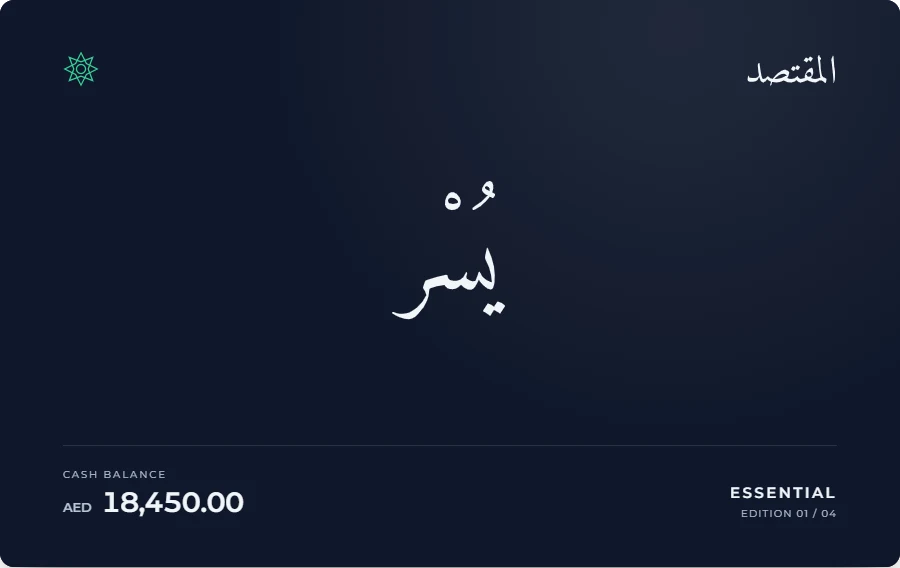
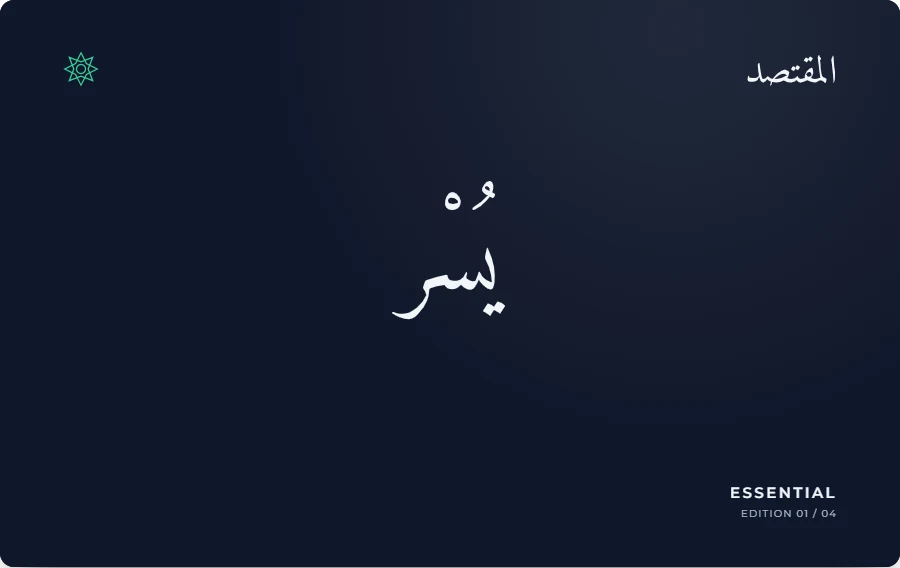
feat: showcase artwork-only cards with an Essential writing preview
Keep the balance in the dashboard preview and use clean artwork for the collection, closing card and social image. Add a lazy-loaded, opt-in preview of the app's actual Essential pen strokes while preserving full earned-card reveals for the app. Handle replay, interrupted animation, reduced motion and failed asset retries.

Changed region(s): [[0.0622, 0.868, 0.28, 0.9278], [0.0933, 0.8081, 0.1867, 0.838]]

diff --git a/assets/website.js b/assets/website.js
@@ -4,6 +4,12 @@
   const reduced = window.matchMedia('(prefers-reduced-motion: reduce)');
   const themeButton = document.querySelector('[data-theme-toggle]');
   const art = document.getElementById('edition-art');
+  const writingButton = document.querySelector('[data-preview-writing]');
+  const writingPreview = document.querySelector('[data-writing-preview]');
+  let writingVersion = 0;
+  let writingAnimations = [];
+  let writingMarkup;
+  let writingActive = false;
   const editions = [
     { name: 'Essential', material: 'YOUR STARTING POINT', message: 'A hopeful beginning.', description: 'A difficult season does not erase your progress. Begin with one small, intentional step.', requirement: 'Your starting card when you create your account. It follows your light or dark theme.', file: 'essential', word: 'Yusr, ease' },
     { name: 'Emerald', material: 'EMERALD SATIN', message: 'Keep going, gently.', description: 'Your picture is getting clearer. Keep showing up, one thoughtful habit at a time.', requirement: 'Complete one accepted first check-in: review an account balance and your recent records.', file: 'emerald', word: 'Sabr, patience' },
@@ -17,6 +23,8 @@
     return '/assets/cards/' + editions[index].file + (index === 0 ? '-' + root.dataset.theme : '') + '.webp';
   }
   async function showCard(index) {
+    cancelWriting();
+    syncWritingButton();
     const request = ++imageRequest;
     const path = editionPath(index);
     const next = new Image();
@@ -33,7 +41,7 @@
     if (request !== imageRequest) return;
     cardAnimation?.cancel();
     art.hidden = false;
-    caption.textContent = 'The Barakah Card collection · illustrative balance';
+    caption.textContent = 'The Barakah Card collection · artwork preview';
     caption.removeAttribute('role');
     art.src = path;
     art.alt = editions[index].name + ' Barakah Card, with the Arabic reminder ' + editions[index].word + '.';
@@ -41,6 +49,65 @@
       cardAnimation = art.animate([{ opacity: .4, transform: 'translateY(5px)' }, { opacity: 1, transform: 'translateY(0)' }], { duration: 220, easing: 'cubic-bezier(.23,1,.32,1)' });
     }
   }
+  function syncWritingButton() {
+    writingButton.hidden = selected !== 0 || reduced.matches || typeof art.animate !== 'function';
+  }
+  function cancelWriting() {
+    ++writingVersion;
+    writingAnimations.forEach(animation => animation.cancel());
+    writingAnimations = [];
+    writingPreview.hidden = true;
+    writingPreview.replaceChildren();
+    writingButton.disabled = false;
+    writingButton.textContent = 'Preview the writing';
+    if (writingActive && selected === 0) art.src = editionPath(0);
+    writingActive = false;
+  }
+  writingButton.addEventListener('click', async () => {
+    if (selected !== 0 || reduced.matches || writingActive) return;
+    ++imageRequest;
+    const version = ++writingVersion;
+    writingActive = true;
+    writingButton.disabled = true;
+    writingButton.textContent = 'Loading preview…';
+    const caption = document.querySelector('.art-caption');
+    caption.textContent = 'The Barakah Card collection · artwork preview';
+    caption.removeAttribute('role');
+    const blank = new Image();
+    blank.src = '/assets/cards/essential-' + root.dataset.theme + '-blank.webp';
+    try {
+      const [markup] = await Promise.all([
+        writingMarkup || fetch('/assets/cards/essential-writing.svg').then(response => { if (!response.ok) throw new Error('Writing artwork unavailable'); return response.text(); }),
+        blank.decode(),
+      ]);
+      writingMarkup = markup;
+      if (version !== writingVersion || reduced.matches || selected !== 0) return;
+      const svg = new DOMParser().parseFromString(markup, 'image/svg+xml').documentElement;
+      if (svg.localName !== 'svg' || svg.querySelector('parsererror')) throw new Error('Invalid writing artwork');
+      writingPreview.replaceChildren(document.importNode(svg, true));
+      art.src = blank.src;
+      writingPreview.hidden = false;
+      writingButton.textContent = 'Writing…';
+      // The app's exact Amiri outlines, pen routes and timings; no reward reveal.
+      writingAnimations = Array.from(writingPreview.querySelectorAll('[data-pen-stroke],[data-pen-tip]'), path => path.animate([
+        { strokeDashoffset: '1', opacity: 0, offset: 0 },
+        { strokeDashoffset: '1', opacity: 1, offset: .001 },
+        { strokeDashoffset: '0', opacity: 1, offset: 1 },
+      ], { delay: Number(path.dataset.delay), duration: Number(path.dataset.duration), easing: 'cubic-bezier(.32,.08,.24,1)', fill: 'both' }));
+      await Promise.all(writingAnimations.map(animation => animation.finished));
+      if (version !== writingVersion) return;
+      cancelWriting();
+      writingButton.textContent = 'Replay the writing';
+    } catch {
+      if (version !== writingVersion) return;
+      cancelWriting();
+      const caption = document.querySelector('.art-caption');
+      caption.textContent = 'Writing preview could not load. Try again.';
+      caption.setAttribute('role', 'status');
+    }
+  });
+  syncWritingButton();
+  document.addEventListener('visibilitychange', () => { if (document.hidden) cancelWriting(); });
   function syncTheme() {
     const light = root.dataset.theme === 'light';
     themeButton.setAttribute('aria-label', 'Switch to ' + (light ? 'dark' : 'light') + ' theme');
@@ -97,7 +164,7 @@
     document.querySelectorAll('.reveal').forEach(element => observer.observe(element));
     reduced.addEventListener('change', () => { if (reduced.matches) observer.disconnect(); });
   }
-  reduced.addEventListener('change', () => { if (reduced.matches) { cardAnimation?.cancel(); panelAnimation?.cancel(); } });
+  reduced.addEventListener('change', () => { if (reduced.matches) { cardAnimation?.cancel(); panelAnimation?.cancel(); cancelWriting(); } syncWritingButton(); });
 
   // Same bounded tilt and orientation calibration as the app's useCardTilt.
   // Scroll entrance belongs to the outer stage, so it cannot override interaction.

diff --git a/index.html b/index.html
@@ -151,7 +151,7 @@
 </svg>
 </span>
 </div>
-<img class="dashboard-card" src="/assets/cards/emerald.webp" width="900" height="567" fetchpriority="high" alt="Emerald Barakah Card with engraved botanical details, the Arabic reminder Sabr, and a cash balance of AED 18,450.">
+<img class="dashboard-card" src="/assets/cards/emerald-balance.webp" width="900" height="567" fetchpriority="high" alt="Emerald Barakah Card with engraved botanical details, the Arabic reminder Sabr, and a cash balance of AED 18,450.">
 <div class="app-card-link">Your Barakah Card <span aria-hidden="true">↗</span>
 </div>
 <div class="app-widget balance-widget">
@@ -214,8 +214,10 @@
 </span>
 <div class="card-art-frame">
 <img id="edition-art" src="/assets/cards/essential-dark.webp" width="900" height="567" loading="lazy" decoding="async" alt="Essential Barakah Card, with the Arabic reminder Yusr, ease.">
+<span class="writing-preview" data-writing-preview aria-hidden="true" hidden></span>
 </div>
-<p class="art-caption">The Barakah Card collection · illustrative balance</p>
+<p class="art-caption">The Barakah Card collection · artwork preview</p>
+<button type="button" class="text-link writing-button" data-preview-writing hidden>Preview the writing</button>
 <div class="edition-picker" role="group" aria-label="Preview a card edition">
 <button type="button" data-edition="0" aria-pressed="true" aria-controls="edition-details">
 <span class="swatch swatch-essential">
@@ -541,7 +543,7 @@
 <img class="download-card" src="/assets/cards/pearl-platinum.webp" width="900" height="567" loading="lazy" decoding="async" alt="Pearl Platinum, the final Barakah Card edition, with a full arabesque engraving and the Arabic reminder Ihsan, excellence.">
 </div>
 </div>
-<figcaption>Pearl Platinum · illustrative balance</figcaption>
+<figcaption>Pearl Platinum · final edition</figcaption>
 <button type="button" class="text-link tilt-toggle" data-phone-tilt aria-pressed="false" hidden>Enable phone tilt</button>
 <p class="tilt-status" data-tilt-status role="status"></p>
 </figure>

diff --git a/assets/website.css b/assets/website.css
@@ -624,6 +624,7 @@ figcaption {
 }
 
 .card-art-frame {
+  position: relative;
   perspective: 1200px;
   padding-block: .5rem;
 }
@@ -640,6 +641,37 @@ figcaption {
   font-size: .625rem;
   margin-top: 1rem;
   text-align: center;
+}
+
+.writing-preview {
+  position: absolute;
+  inset: .5rem 0;
+  pointer-events: none;
+  color: #f4ede2;
+}
+
+[data-theme=light] .writing-preview {
+  color: #0f172a;
+}
+
+.writing-preview>svg {
+  display: block;
+  width: 100%;
+  height: 100%;
+}
+
+.writing-button {
+  display: flex;
+  margin: .5rem auto 0;
+  padding: .5rem;
+  border: 0;
+  background: transparent;
+  color: var(--accent);
+  font-size: .75rem;
+}
+
+.writing-button:disabled {
+  cursor: default;
 }
 
 .edition-picker {

diff --git a/README.md b/README.md
@@ -8,7 +8,7 @@ Marketing site for **BarakahFlow**, a mindful personal finance app for Muslims. 
 | --- | --- |
 | `index.html` | App-led landing page: Summary preview, Barakah Card explorer, Track/Plan/Save, guided routine, download and FAQ |
 | `assets/website.css`, `assets/website.js` | Shared website tokens, responsive layouts, accessible previews and restrained native motion |
-| `assets/cards/` | WebP exports of the app's active card component, with illustrative balances |
+| `assets/cards/` | Current artwork-only WebP cards, a separate dashboard balance preview, and lazy-loaded Essential writing artwork |
 | `404.html` | Branded missing-page response, including retired public calculators |
 | `privacy-policy.html` | Privacy policy |
 | `terms.html` | Terms of Service |
@@ -30,6 +30,7 @@ Public calculator pages and their promotion are hidden. Their eleven generated H
 
 - **App branding**: Montserrat, emerald accents, slate surfaces, quiet 14px panels and light/dark themes. Fonts are self-hosted copies of the app's existing files.
 - **Barakah Cards**: Essential, Emerald, Midnight Gold and Pearl Platinum, with current earning rules and Arabic artwork. No payment-card, streak, private Wallet demo or prototype promises.
+- **Artwork and writing**: collection, social artwork and closing card omit cash figures. The dashboard alone shows an illustrative balance. Essential offers an explicit writing preview using the app's exact Arabic outlines, pen routes and timing; no autoplay, earned-edition animation, engraving evolution or reward celebration. Reduced motion keeps the finished artwork visible.
 - **Closing card**: Pearl Platinum follows desktop pointer movement with bounded 3D tilt. Phone motion is opt-in, requests sensor permission where required, calibrates to the starting position and suspends offscreen or when reduced motion is enabled. The scroll entrance and interactive tilt use separate layers. No sensor readings are stored or sent anywhere.
 - **Current features**: manual records/Quick Spend, account balances, category budgets, recurring bills, savings goals, multiple currencies and guided check-ins.
 - **Platform clarity**: browser and Android APK links; iPhone Safari Home Screen instructions, with no App Store claim or automatic install popup.
@@ -46,9 +47,9 @@ Public calculator pages and their promotion are hidden. Their eleven generated H
 
 Compared the public homepage with the app's active `BarakahCard.tsx`, `card-data.ts`, `CardProgressSummary.tsx`, dashboard, `DashboardCard.module.css`, Quick Spend, budget and savings components and current onboarding. Product reference was the app itself, not a new visual direction. The separate clean-card concept remains a preview and is deliberately not advertised as shipped.
 
-Card images were rendered from the active React component in isolated Chrome with sample AED 18,450, then exported to 9–28KB WebP files. Dashboard and feature compositions are HTML previews, not authenticated screenshots. No production data, financial writes or auth changes were used. Regenerate the assets deliberately when the active renderer changes; do not reuse the older Wallet PNGs, which retain historical edition labels.
+Card images were rendered from the active React component's `presentation="artwork"` mode in isolated Chrome and exported to small WebP files. The separate `emerald-balance.webp` dashboard image uses an illustrative AED 18,450. Essential's blank artwork and `essential-writing.svg` come from the same renderer: the SVG preserves the exact Amiri mask paths and per-stroke schedules. Only the word is previewed, without the full in-app reveal. Dashboard and feature compositions are HTML previews, not authenticated screenshots. No production data, financial writes or auth changes were used. Regenerate assets deliberately when the active renderer changes; older Wallet PNGs retain historical edition labels.
 
-The old calculator-led sections, repeated scholarly descriptions, dated screenshots, unsupported demo claims, automatic install popup, remote font requests and unpinned icon library were removed from the landing page. Legal content and the APK/checksum are preserved. The homepage is about 25KB HTML, plus 34KB CSS and 12KB JavaScript before hosting compression.
+The old calculator-led sections, repeated scholarly descriptions, dated screenshots, unsupported demo claims, automatic install popup, remote font requests and unpinned icon library were removed from the landing page. Legal content and the APK/checksum are preserved. The website remains buildless; the writing artwork loads only on request and adds no framework or animation dependency.
 
 ## Local checks and preview
 
@@ -63,6 +64,8 @@ Preview defaults to `http://127.0.0.1:3001`. Static checks use only Node. Browse
 Browser checks cover 320/390/768/1024/1440px in both themes, zero automated WCAG AA violations, overflow, keyboard tabs, FAQ, accurate edition requirements, rapid switching, failed-image retry, theme persistence, blocked storage, reduced motion, 200% text and core content without JavaScript. Static checks cover assets/anchors, schema/FAQ parity, legal links and 33 variants of retired calculator URLs. External app onboarding and APK installation are outside the landing-page checks.
 
 Closing-card checks cover desktop pointer/reset, phone sensor opt-in, granted/denied/rejected permission, calibration, tilt limits, offscreen suspension, unsupported sensors and dynamic reduced motion. Phone sensor events are simulated in Chrome; physical-device feel still needs a real phone. Permission handling follows the [Device Orientation specification](https://www.w3.org/TR/orientation-event/).
+
+Writing checks cover no autoplay, explicit replay, a visible midpoint, return to the settled artwork, and interruption by theme, edition and reduced-motion changes. The full reward animation stays in the app.
 
 Evidence is written to the parent checkout's ignored `output/website-refresh` directory, configurable with `WEBSITE_EVIDENCE_DIR`. One independent visual polish review and one isolated local UX walkthrough were completed. Findings led to larger narrow-screen edition labels and an earlier in-app-card explanation. Motion was checked in real Chrome by the implementing agent; no physical-device performance claim is made.
 
